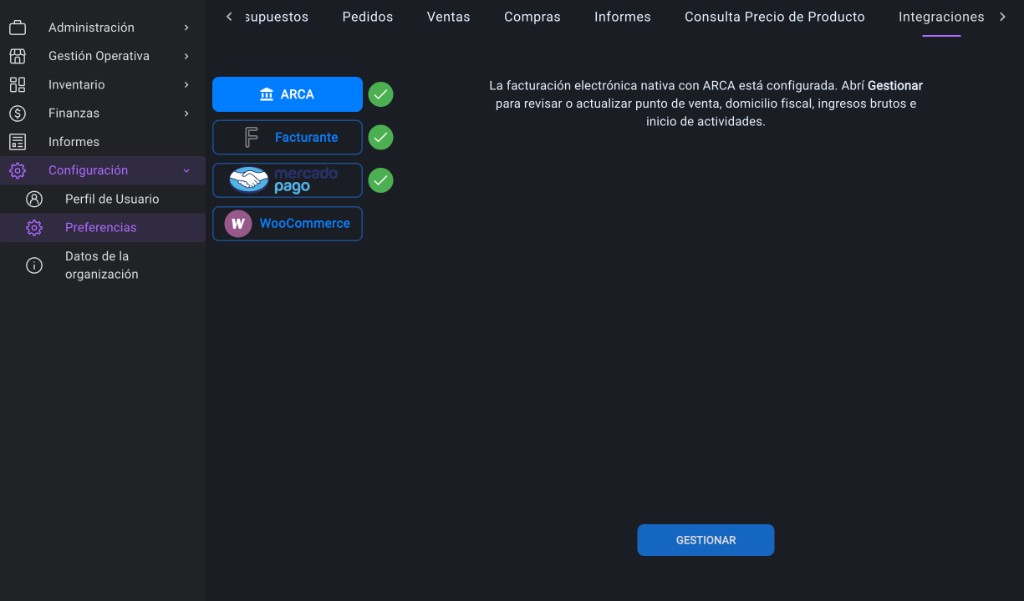
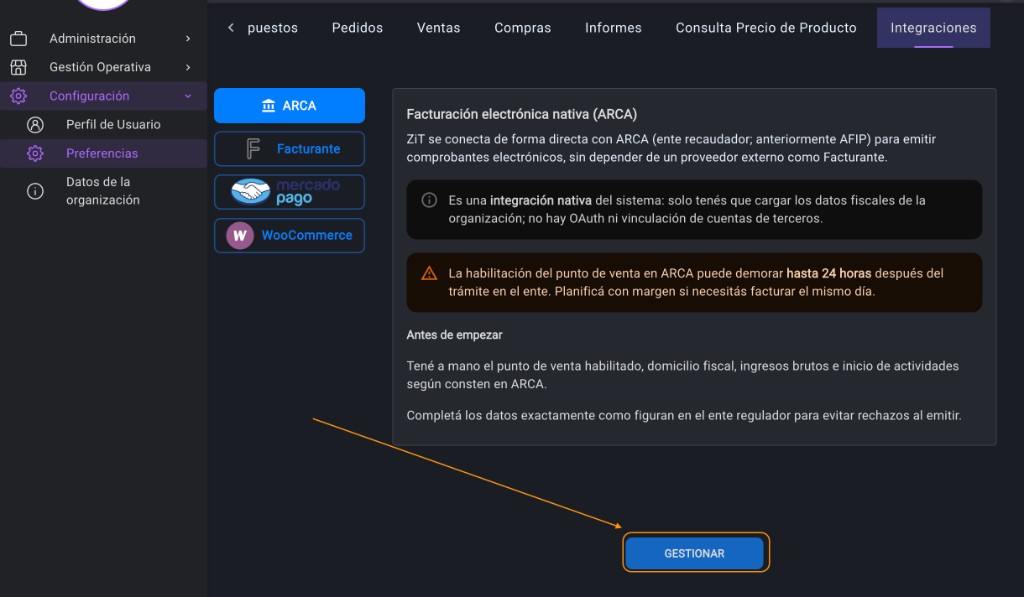
docs(integraciones): agregar guía ARCA y captura de pantalla inicial
Incorpora el artículo de facturación electrónica nativa, actualiza la captura de Preferencias → Integraciones y reordena el sidebar de integraciones.

diff --git a/docs/integraciones/arca.md b/docs/integraciones/arca.md
@@ -1,0 +1,189 @@
+---
+title: 'ARCA en Zink ERP: facturación electrónica nativa | Zink ERP'
+sidebar_label: ARCA
+description: >-
+  La integración nativa con ARCA permite emitir comprobantes electrónicos desde
+  Zink ERP cargando los datos fiscales de la organización, sin OAuth ni
+  proveedores externos como Facturante.
+sidebar_position: 2
+slug: /integraciones/arca
+---
+
+## Resumen
+
+**ARCA** es la integración nativa de ZinK ERP para facturación electrónica en Argentina. El sistema se conecta de forma directa con **ARCA** (ente recaudador; anteriormente AFIP) para emitir comprobantes electrónicos, sin depender de un proveedor externo como Facturante.
+
+La configuración se realiza desde **Preferencias → Integraciones → ARCA** mediante un asistente que primero muestra una guía de inicio y luego solicita los datos fiscales de la organización.
+
+:::info Las tres partes del proceso
+
+| Paso | Qué hacés | Dónde |
+|------|-----------|-------|
+| **1. Trámite en ARCA** | Punto de venta nuevo y delegación a **Zink in Tech** (CUIT **20-31499393-5**). Ver [tutorial en ARCA](/integraciones/delegacion-autorizacion-comprobantes-arca). | Portal de ARCA |
+| **2. Configuración en el ERP** | En **Preferencias → Integraciones → ARCA**, tocá **Gestionar** y cargá punto de venta, domicilio fiscal, ingresos brutos e inicio de actividades. | ZinK ERP |
+| **3. Aviso a soporte** | Cuando terminaste los pasos 1 y 2, enviá CUIT, número de punto de venta y confirmación de delegación. Soporte valida la delegación para habilitar la emisión. | Soporte ZinK ERP |
+
+:::
+
+:::info Antes de seguir
+
+Para facturación electrónica, usá **Preferencias → Integraciones → ARCA**. Es la integración nativa del sistema.
+
+:::
+
+Esta ayuda explica:
+
+- qué permite la integración nativa;
+- qué muestra la pantalla inicial del asistente;
+- qué revisar antes de empezar;
+- qué datos fiscales vas a necesitar;
+- qué significa el plazo de habilitación en ARCA;
+- cómo completar el alta desde **Gestionar**;
+- enlace al trámite en ARCA cuando corresponda;
+- límites de alcance y preguntas frecuentes.
+
+---
+
+## Qué permite
+
+La integración nativa con ARCA permite preparar la facturación electrónica de la organización para operar desde ZinK ERP con información fiscal cargada en el sistema.
+
+El comportamiento validado es:
+
+- abrir el alta desde **Preferencias → Integraciones**;
+- seleccionar **ARCA** en la columna izquierda;
+- revisar la guía inicial del asistente;
+- tocar **Gestionar** para avanzar al formulario fiscal;
+- completar punto de venta, domicilio fiscal, ingresos brutos e inicio de actividades;
+- guardar la configuración en el ERP.
+
+No hay OAuth ni vinculación de cuentas de terceros: solo tenés que cargar los datos fiscales de la organización según consten en ARCA.
+
+---
+
+## Pantalla inicial del asistente (paso 2)
+
+Al seleccionar **ARCA** en **Preferencias → Integraciones**, el panel derecho muestra la guía de inicio antes de abrir el formulario.
+
+![Preferencias → Integraciones → ARCA: pantalla inicial del asistente](/img/ayuda/integraciones/arca/preferencias-integraciones-arca-01.png)
+
+### Contenido visible
+
+| Bloque | Qué indica |
+|--------|------------|
+| **Título** | Facturación electrónica nativa (ARCA). |
+| **Descripción** | ZinK ERP se conecta de forma directa con ARCA para emitir comprobantes electrónicos, sin depender de un proveedor externo como Facturante. |
+| **Integración nativa** | Solo tenés que cargar los datos fiscales de la organización; no hay OAuth ni vinculación de cuentas de terceros. |
+| **Plazo de habilitación** | La habilitación del punto de venta en ARCA puede demorar **hasta 24 horas** después del trámite en el ente. Planificá con margen si necesitás facturar el mismo día. |
+| **Antes de empezar** | Tené a mano el punto de venta habilitado, domicilio fiscal, ingresos brutos e inicio de actividades según consten en ARCA. Completá los datos exactamente como figuran en el ente regulador para evitar rechazos al emitir. |
+| **Acción** | **Gestionar** abre el siguiente paso del asistente (formulario fiscal). |
+
+---
+
+## Antes de empezar
+
+Antes de tocar **Gestionar**, prepará:
+
+- acceso a ZinK ERP con permisos para usar **Preferencias → Integraciones** y **Gestionar**;
+- **punto de venta habilitado** en ARCA para facturación electrónica;
+- **domicilio fiscal** según conste en ARCA;
+- **ingresos brutos** con el texto exacto que debe figurar en los comprobantes;
+- **inicio de actividades** en el formato que pide el formulario (DD/MM/AAAA);
+- tiempo operativo suficiente si necesitás emitir comprobantes el mismo día.
+
+Los datos deben coincidir con la información fiscal real de la organización. Un error en punto de venta, domicilio o ingresos brutos puede provocar rechazos al emitir.
+
+Si todavía no creaste el punto de venta ni delegaste el servicio en ARCA, completá primero el **paso 1** en [Cómo delegar Facturación Electrónica en ARCA](/integraciones/delegacion-autorizacion-comprobantes-arca).
+
+---
+
+## Tiempos de habilitación en ARCA
+
+La pantalla inicial advierte que la habilitación del punto de venta en ARCA puede demorar **hasta 24 horas** después del trámite en el ente.
+
+Ese plazo no necesariamente indica un error de ZinK ERP. Puede depender de la disponibilidad, validación o procesamiento externo de ARCA.
+
+Si necesitás facturar en una fecha específica, planificá el alta con margen.
+
+---
+
+## Cómo completar el alta (paso 2)
+
+1. Entrá a **Preferencias → Integraciones**.
+2. En la columna izquierda, seleccioná **ARCA**.
+3. Leé la guía inicial (integración nativa, plazos y requisitos).
+4. Tocá **Gestionar**.
+5. Completá el formulario fiscal:
+
+![Formulario fiscal de ARCA en ZinK ERP](/img/ayuda/integraciones/arca/formulario-fiscal-arca-01.png)
+
+| Campo | Obligatorio | Notas |
+|-------|-------------|--------|
+| Punto de venta | Sí | El mismo número habilitado en ARCA (ej. `00012`). |
+| Inicio de actividades | Recomendado | Fecha en formato **DD/MM/AAAA**, como figura en ARCA. |
+| Domicilio fiscal | Recomendado | Elegí el domicilio que corresponda a la actividad del punto de venta. |
+| Ingresos brutos | Si aplica | Texto **exacto** que debe figurar en los comprobantes según tu jurisdicción y condición. |
+
+6. Tocá **Guardar**.
+7. Avisá a soporte con CUIT, punto de venta y confirmación de delegación (paso 3). Ver [Aviso a soporte](/integraciones/delegacion-autorizacion-comprobantes-arca#aviso-a-soporte).
+
+Si la configuración ya existía, **Gestionar** sirve para actualizar los mismos datos.
+
+---
+
+## Qué pasa al guardar
+
+Después de guardar (paso 2):
+
+- la configuración fiscal queda registrada en el ERP;
+- el servicio puede mostrarse como configurado en la pestaña **Integraciones**;
+- completá el **paso 3**: avisá a soporte para que valide la delegación y habilite la emisión;
+- la primera emisión también depende de que ARCA haya habilitado el punto de venta (puede demorar hasta 24 horas).
+
+Si el ERP rechaza el punto de venta, informa error fiscal o no habilita la emisión, esperá hasta 24 horas desde el trámite. Si el problema sigue, enviá a soporte: organización, CUIT, punto de venta, fecha/hora aproximada y captura del mensaje visible.
+
+---
+
+## Problemas frecuentes
+
+| Síntoma | Qué revisar |
+|---------|-------------|
+| No aparece ARCA en Integraciones | Permisos del usuario y servicios habilitados para la organización. |
+| No está disponible **Gestionar** | La configuración fiscal puede estar activa o el usuario puede no tener permisos suficientes. |
+| Rechazo al emitir | Punto de venta, domicilio fiscal e ingresos brutos deben coincidir exactamente con ARCA. |
+| Demora luego del trámite | La habilitación del punto de venta en ARCA puede demorar hasta 24 horas. |
+
+---
+
+## Preguntas frecuentes
+
+### ¿ARCA requiere OAuth o vincular una cuenta externa?
+
+No. Es una integración nativa: solo cargás los datos fiscales de la organización en el asistente.
+
+### ¿En qué pantalla empiezo en el ERP?
+
+En el **paso 2** del flujo: **Preferencias → Integraciones → ARCA**. La guía inicial resume los tres pasos; **Gestionar** abre el formulario fiscal.
+
+### ¿Por qué habla de hasta 24 horas?
+
+ARCA puede tardar en habilitar el punto de venta después del trámite en el ente. Ese plazo es externo al ERP.
+
+### ¿Puedo usar un punto de venta de otro sistema?
+
+No conviene. Para facturación electrónica por este medio conviene un punto de venta exclusivo para ZinK ERP, habilitado en ARCA.
+
+### ¿Puedo usar Facturante en lugar de ARCA?
+
+No. Para facturación electrónica usá **ARCA** en **Preferencias → Integraciones**.
+
+---
+
+## Ver también
+
+- [Integraciones](/integraciones)
+- [Delegar autorización de comprobantes en ARCA](/integraciones/delegacion-autorizacion-comprobantes-arca)
+- [Facturante](/integraciones/facturante)
+- [Cómo funcionan las integraciones](/integraciones/como-funciona)
+- [Problemas frecuentes](/integraciones/problemas-frecuentes)
+- [Preferencias](/configuracion/preferencias)

diff --git a/docs/integraciones/facturante.md b/docs/integraciones/facturante.md
@@ -4,7 +4,7 @@ sidebar_label: Facturante
 description: >-
   Facturante es el proveedor que permite habilitar la emisión de comprobantes
   electrónicos desde ZinkERP.
-sidebar_position: 3
+sidebar_position: 4
 slug: /integraciones/facturante
 ---
 
@@ -16,9 +16,9 @@ La configuración se realiza desde **Preferencias → Integraciones** mediante u
 
 :::info Antes de seguir
 
-Esta guía aplica solo si en **Preferencias → Integraciones** tu organización muestra el servicio **Facturante**.
+Esta guía es de **referencia legada** para organizaciones que ya tenían **Facturante** configurado.
 
-Si en tu organización aparece **ARCA**, seguí primero [Delegar autorización de comprobantes en ARCA](/integraciones/delegacion-autorizacion-comprobantes-arca), que es el flujo nativo documentado en este portal.
+Para facturación electrónica, usá **[ARCA](/integraciones/arca)**.
 
 :::
 
@@ -55,7 +55,7 @@ El comportamiento validado es:
 - enviar el alta al backend;
 - ver una finalización correcta o un mensaje de error según la respuesta.
 
-Facturante puede seguir siendo el servicio visible en algunas organizaciones o configuraciones existentes. Si tu cuenta muestra **ARCA** en lugar de **Facturante**, seguí la guía nativa de ARCA y no esta.
+Facturante fue reemplazado por la integración nativa con **ARCA**. Consultá esta guía solo si tu organización ya emitía por Facturante.
 
 ---
 
@@ -213,9 +213,9 @@ Sí, cuando ese servicio es el que aparece habilitado en tu organización.
 
 En **Preferencias → Integraciones → Facturante → Gestionar**, siempre que la acción esté disponible para tu organización y usuario.
 
-### ¿Qué hago si en mi cuenta aparece ARCA y no Facturante?
+### ¿Dónde se configura facturación electrónica hoy?
 
-Seguí la guía de [ARCA nativa](/integraciones/delegacion-autorizacion-comprobantes-arca). No asumas que ambas integraciones se configuran igual ni intentes completar las dos en paralelo.
+En **Preferencias → Integraciones → ARCA**. Ver [ARCA](/integraciones/arca).
 
 ### ¿Por qué habla de ARCA?
 

diff --git a/docs/integraciones/como-funciona.md b/docs/integraciones/como-funciona.md
@@ -4,12 +4,12 @@ sidebar_label: Cómo funcionan las integraciones
 description: >-
   Acá explicamos solo ideas que vas a cruzar al vincular ZinK ERP con un
   proveedor externo.
-sidebar_position: 2
+sidebar_position: 3
 ---
 
 ## Resumen
 
-Acá explicamos **solo ideas** que vas a cruzar al vincular ZinK ERP con un proveedor externo. Sirve como “glosario vivo” antes de entrar a Facturante, Mercado Pago o WooCommerce.
+Acá explicamos **solo ideas** que vas a cruzar al vincular ZinK ERP con un proveedor externo. Sirve como “glosario vivo” antes de entrar a ARCA, Mercado Pago o WooCommerce.
 
 ---
 
@@ -26,7 +26,7 @@ Acá explicamos **solo ideas** que vas a cruzar al vincular ZinK ERP con un prov
 
 | Término | Qué significa |
 |---------|----------------|
-| **Servicio externo** | Cualquier integración listada (Facturante, Mercado Pago, WooCommerce, etc.). Es “otro sistema” con el que ZinK ERP va a trabajar. |
+| **Servicio externo** | Cualquier integración listada (ARCA, Mercado Pago, WooCommerce, etc.). Es “otro sistema” con el que ZinK ERP va a trabajar. |
 | **Alta / vínculo** | El momento en que tu organización en el ERP queda **conectada de forma válida** con ese proveedor. |
 | **OAuth** (se lee “o-auth”) | Flujo en el que el ERP te **manda al sitio oficial** del proveedor para que inicies sesión **allá** y autorices el vínculo. **No** escribís la contraseña del proveedor dentro de un formulario del ERP. Ejemplo típico: Mercado Pago. |
 | **Clave REST (WooCommerce)** | En WordPress/WooCommerce generás un **par de claves** (clave del cliente + secreto) solo para que sistemas se comuniquen por la API. **No** es la contraseña del administrador de WordPress. |

diff --git a/docs/roles/administracion.md b/docs/roles/administracion.md
@@ -43,6 +43,7 @@ Este recorrido está orientado a quienes mantienen la base operativa del sistema
 ### Integraciones
 
 - [Integraciones](../integraciones/intro.md)
+- [ARCA](../integraciones/arca.md)
 - [Facturante](../integraciones/facturante.md)
 - [Mercado Pago](../integraciones/mercado-pago.md)
 

diff --git a/docs/integraciones/mercado-pago.md b/docs/integraciones/mercado-pago.md
@@ -5,7 +5,7 @@ description: >-
   La integración con Mercado Pago permite vincular una cuenta de Mercado Pago
   con ZinkERP para usarla en flujos de cobro donde la organización tenga esa
   integración
-sidebar_position: 4
+sidebar_position: 5
 slug: /integraciones/mercado-pago
 ---
 

diff --git a/docs/integraciones/woocommerce.md b/docs/integraciones/woocommerce.md
@@ -4,7 +4,7 @@ sidebar_label: WooCommerce
 description: >-
   La integración con WooCommerce permite conectar una tienda en WordPress con el
   catálogo de productos de ZinkERP.
-sidebar_position: 5
+sidebar_position: 6
 slug: /integraciones/woocommerce
 ---
 

diff --git a/docs/integraciones/mercado-libre.md b/docs/integraciones/mercado-libre.md
@@ -5,7 +5,7 @@ description: >-
   Además de Facturante, Mercado Pago y WooCommerce, el sistema puede listar
   otros servicios externos según lo que habilite el backend para tu
   organización.
-sidebar_position: 7
+sidebar_position: 8
 ---
 
 ## Resumen
